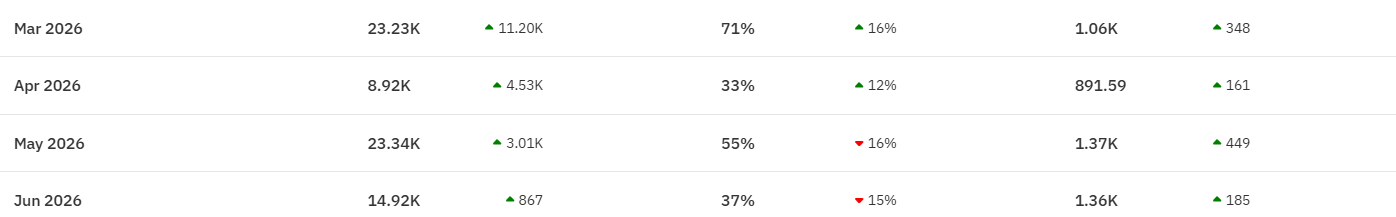
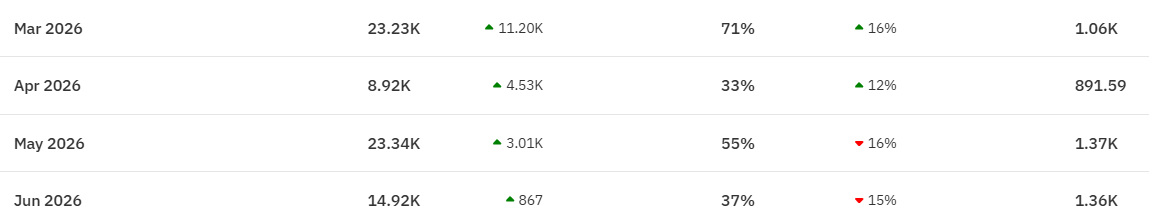
Fix the footer, the purchase link and join community card

diff --git a/src/components/Community.tsx b/src/components/Community.tsx
@@ -38,16 +38,17 @@ interface CommunityTier {
 
 const TIERS: CommunityTier[] = [
   {
-    title: 'Free Community',
+    title: 'RevenueLab Free Community',
     subtitle: 'RevenueLab Academy | Free Community',
     description:
-      'The entry point for anyone interested in short-term rental revenue management. Get free value, webinars, and introductory tips.',
+      'Join a growing community of hosts, property managers, and revenue professionals for practical insights, free learning opportunities, industry updates, and more.',
     features: [
-      'Short-Term Rental Revenue Management basics',
-      'Introduction to pricing strategies',
-      'PriceLabs and pricing tool insights',
-      'Updates about upcoming programs',
-      'Free webinars, tips and resources',
+      'Practical pricing & revenue management tips',
+      'PriceLabs and other pricing tool insights',
+      'Free webinars, trainings & resources',
+      'Industry insights and opportunities',
+      'Updates on upcoming courses and programs',
+      'Connect with other Short-Term Rental professionals',
     ],
     ctaText: 'Join Free Community',
     ctaLink: 'https://chat.whatsapp.com/JK49tyEZkD79VumjBhC0Yn?mode=gi_t',
@@ -55,17 +56,17 @@ const TIERS: CommunityTier[] = [
     icon: Users,
   },
   {
-    title: 'Revenue Managers Community',
+    title: 'RevenueLab Inner Circle',
     subtitle: 'RevenueLab Academy | Revenue Managers Community',
     description:
-      'The professional hub for paid members and students. Deep-dive discussions, direct access to founders, and advanced networking.',
+      'A private community for RevenueLab Academy students and members to get ongoing support, exchange practical insights, stay connected to industry opportunities, and learn alongside other revenue professionals.',
     features: [
-      'Direct access to the RevenueLab Academy team',
-      'Advanced Revenue Management discussions',
-      'Pricing tools support and practical guidance',
-      'Industry insights and opportunities',
-      'Peer networking with other Revenue Managers',
-      'Exclusive member resources',
+      'Direct support from the RevenueLab Academy team',
+      'Practical revenue management discussions',
+      'Pricing tools guidance & troubleshooting',
+      'Industry insights, trends & opportunities',
+      'Networking with fellow revenue professionals',
+      'Exclusive resources, updates & learning opportunities',
     ],
     ctaText: 'Join Paid Community',
     ctaLink: 'https://flutterwave.com/pay/kqrvcjgocuxg',

diff --git a/src/components/CoursePurchase.tsx b/src/components/CoursePurchase.tsx
@@ -21,10 +21,11 @@ const platforms: readonly PlatformPlan[] = [
     ctaText: 'Buy Directly →',
     isRecommended: true,
     features: [
-      'Direct instant access to learning portal',
+      '* Instant access to the learning portal',
       'Complete PriceLabs Masterclass modules',
-      'Downloadable revenue strategy templates',
-      'Lifetime course updates & direct support',
+      'Lifetime access to RevenueLab Inner Circle',
+      '1-year access to the course',
+      'Course updates & direct support',
     ],
   },
   {
@@ -35,10 +36,11 @@ const platforms: readonly PlatformPlan[] = [
     ctaText: 'Buy on Nestuge →',
     isRecommended: false,
     features: [
-      'Interactive cohort community access',
-      'Peer discussions & networking forums',
-      'Structured learning progress tracking',
-      'Accessible on web and mobile devices',
+      '* Instant access to the learning portal',
+      'Complete PriceLabs Masterclass modules',
+      'Lifetime access to RevenueLab Inner Circle',
+      '1-year access to the course',
+      'Course updates & direct support',
     ],
   },
   {
@@ -49,10 +51,11 @@ const platforms: readonly PlatformPlan[] = [
     ctaText: 'Buy on Selar →',
     isRecommended: false,
     features: [
-      'Pay in local currency (NGN, GHS, KES, USD, etc.)',
-      'Debit/credit cards, bank transfers & mobile money',
-      'Instant access link & invoice upon checkout',
-      'Dedicated local customer payment support',
+      '* Instant access to the learning portal',
+      'Complete PriceLabs Masterclass modules',
+      'Lifetime access to RevenueLab Inner Circle',
+      '1-year access to the course',
+      'Course updates & direct support',
     ],
   },
 ] as const;

diff --git a/src/components/Footer.tsx b/src/components/Footer.tsx
@@ -77,7 +77,7 @@ export default function Footer(): React.JSX.Element {
                   Instructors & Operations
                 </span>
                 <p className="text-white/50 text-xs sm:text-sm">
-                  Led by Ebere & Abosede — managing 100+ high-performing properties.
+                  Led by Ebere & Abosede
                 </p>
               </div>
             </div>
@@ -170,7 +170,7 @@ export default function Footer(): React.JSX.Element {
               {/* Status Indicator */}
               <div className="mt-8 flex items-center gap-2 text-xs text-white/40">
                 <span className="w-2 h-2 rounded-full bg-[#25D366]" />
-                <span>Admissions is Open</span>
+                <span>Admission is Open</span>
               </div>
             </div>
           </div>

diff --git a/src/components/About.tsx b/src/components/About.tsx
@@ -152,7 +152,7 @@ export default function About(): React.JSX.Element {
               <p>
                 Beyond education, we provide professional revenue management
                 services to help hosts maximize the performance of their
-                properties — turning data into dollars.
+                properties — turning data into revenue.
               </p>
             </div>
 
